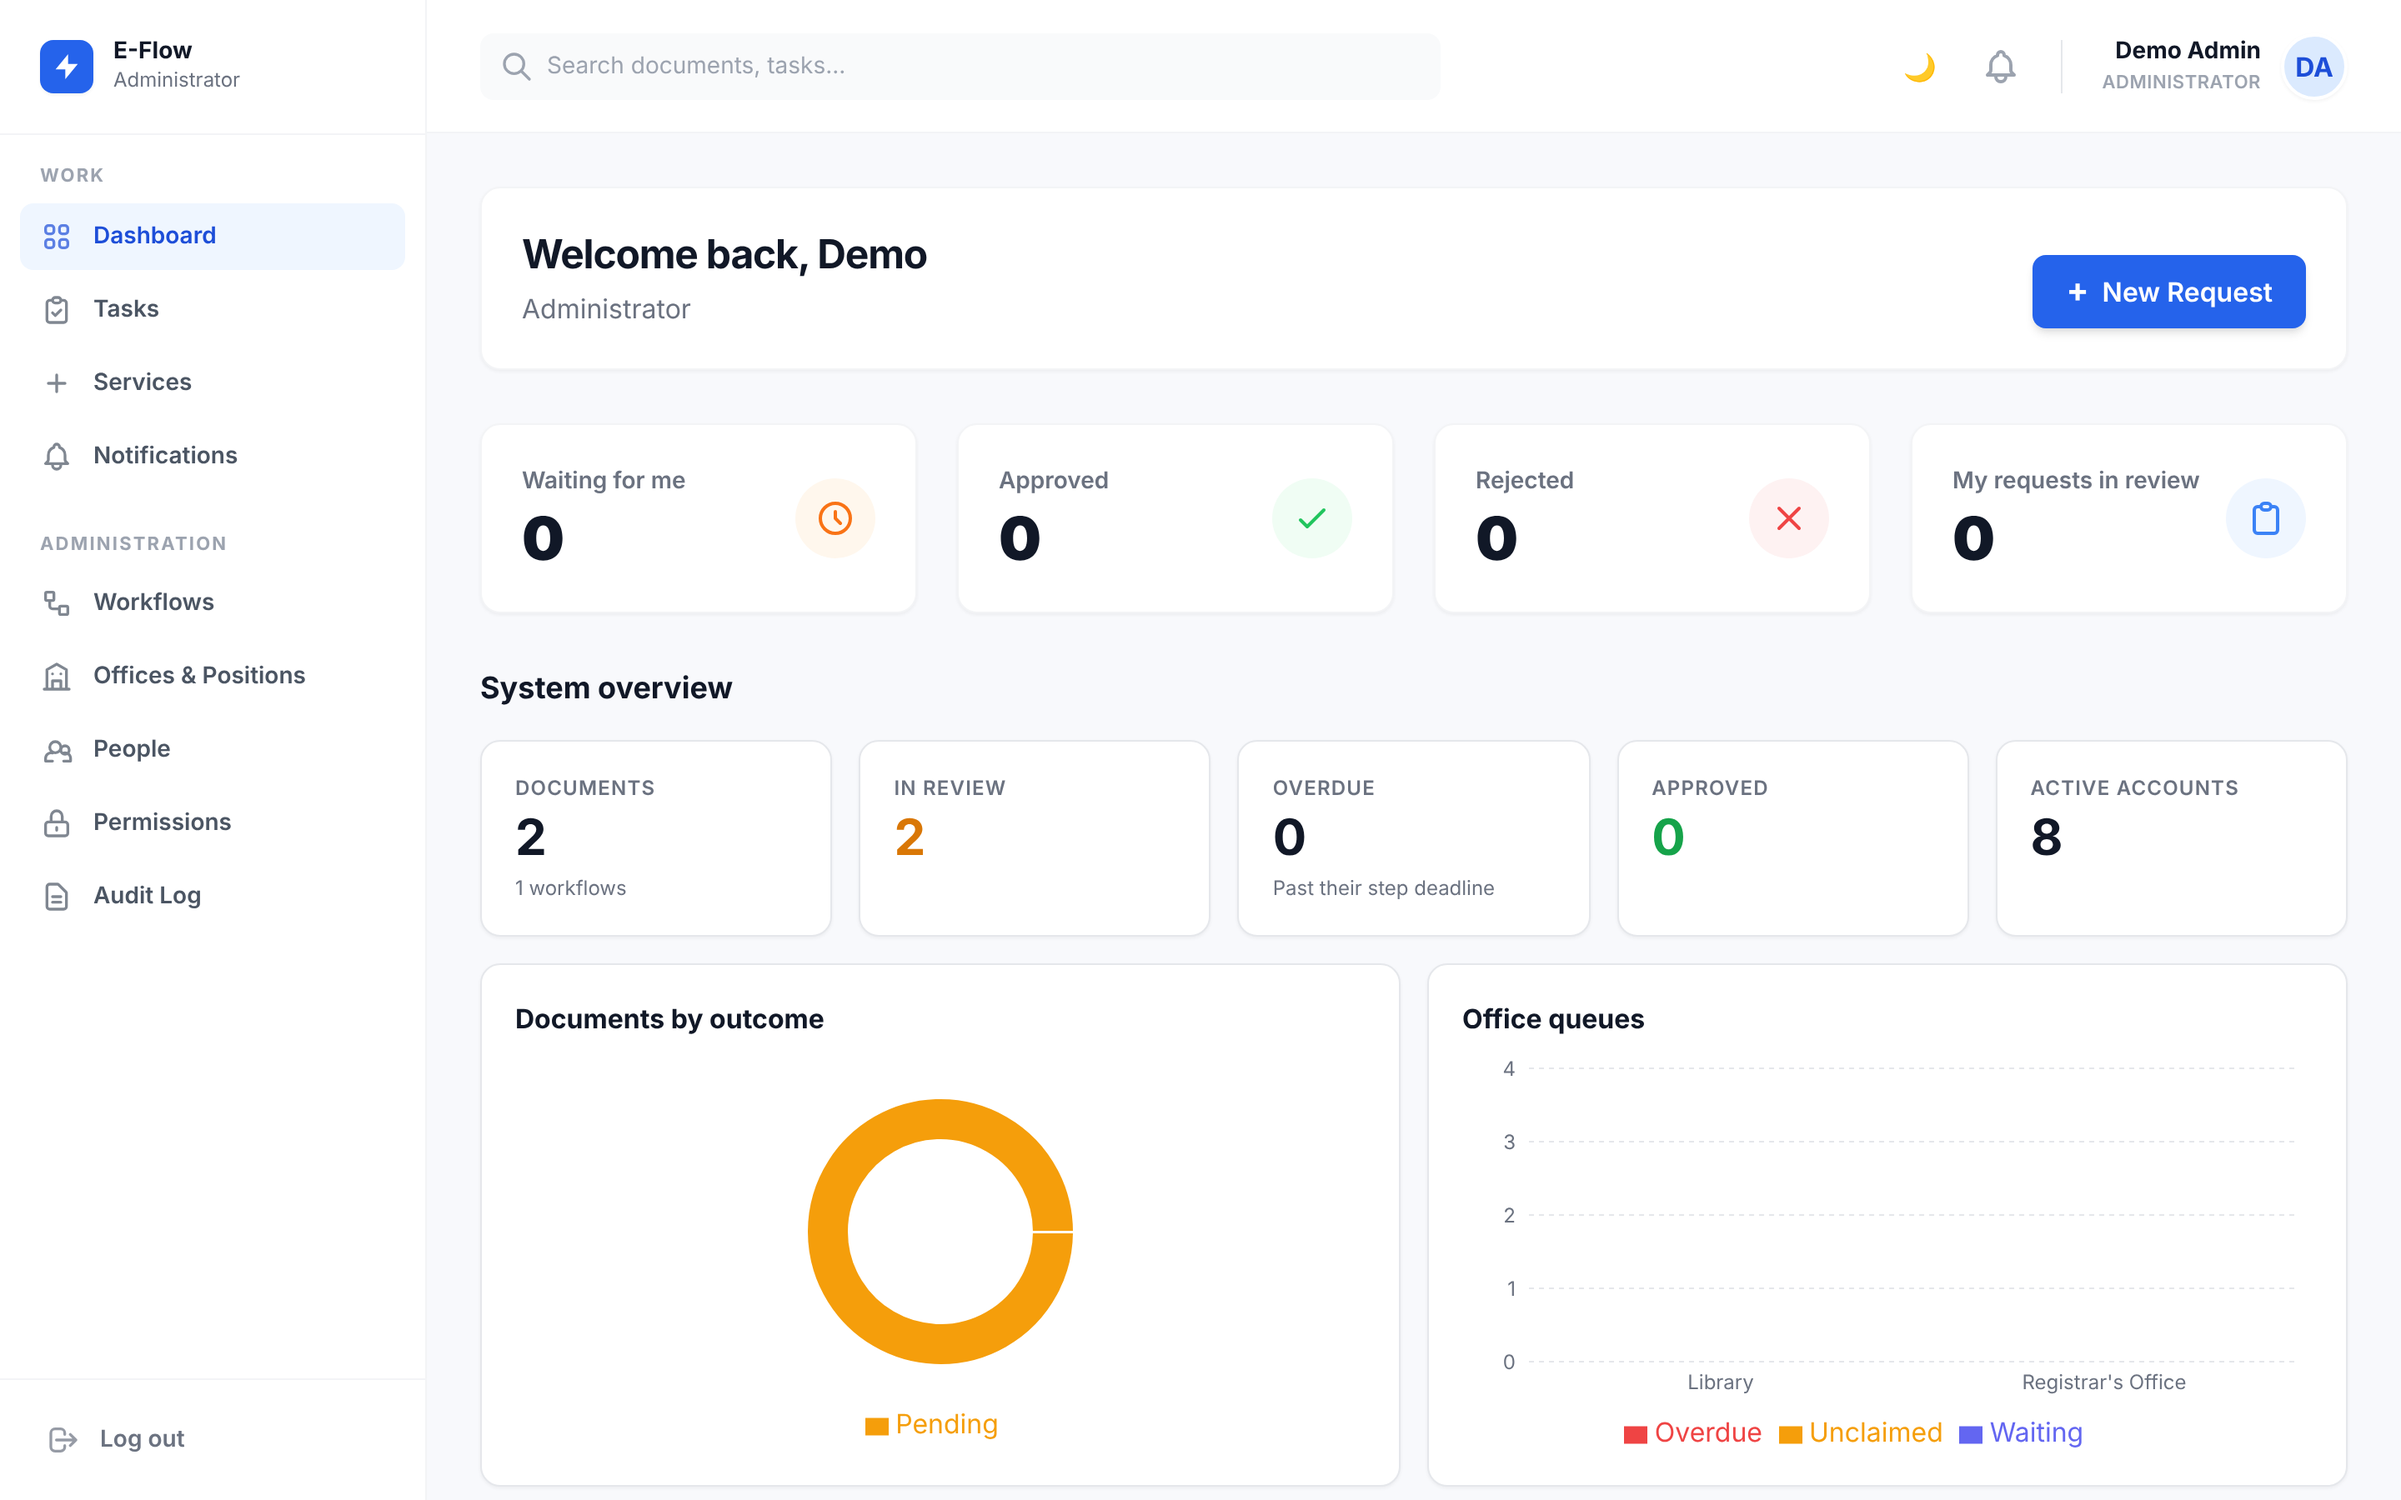
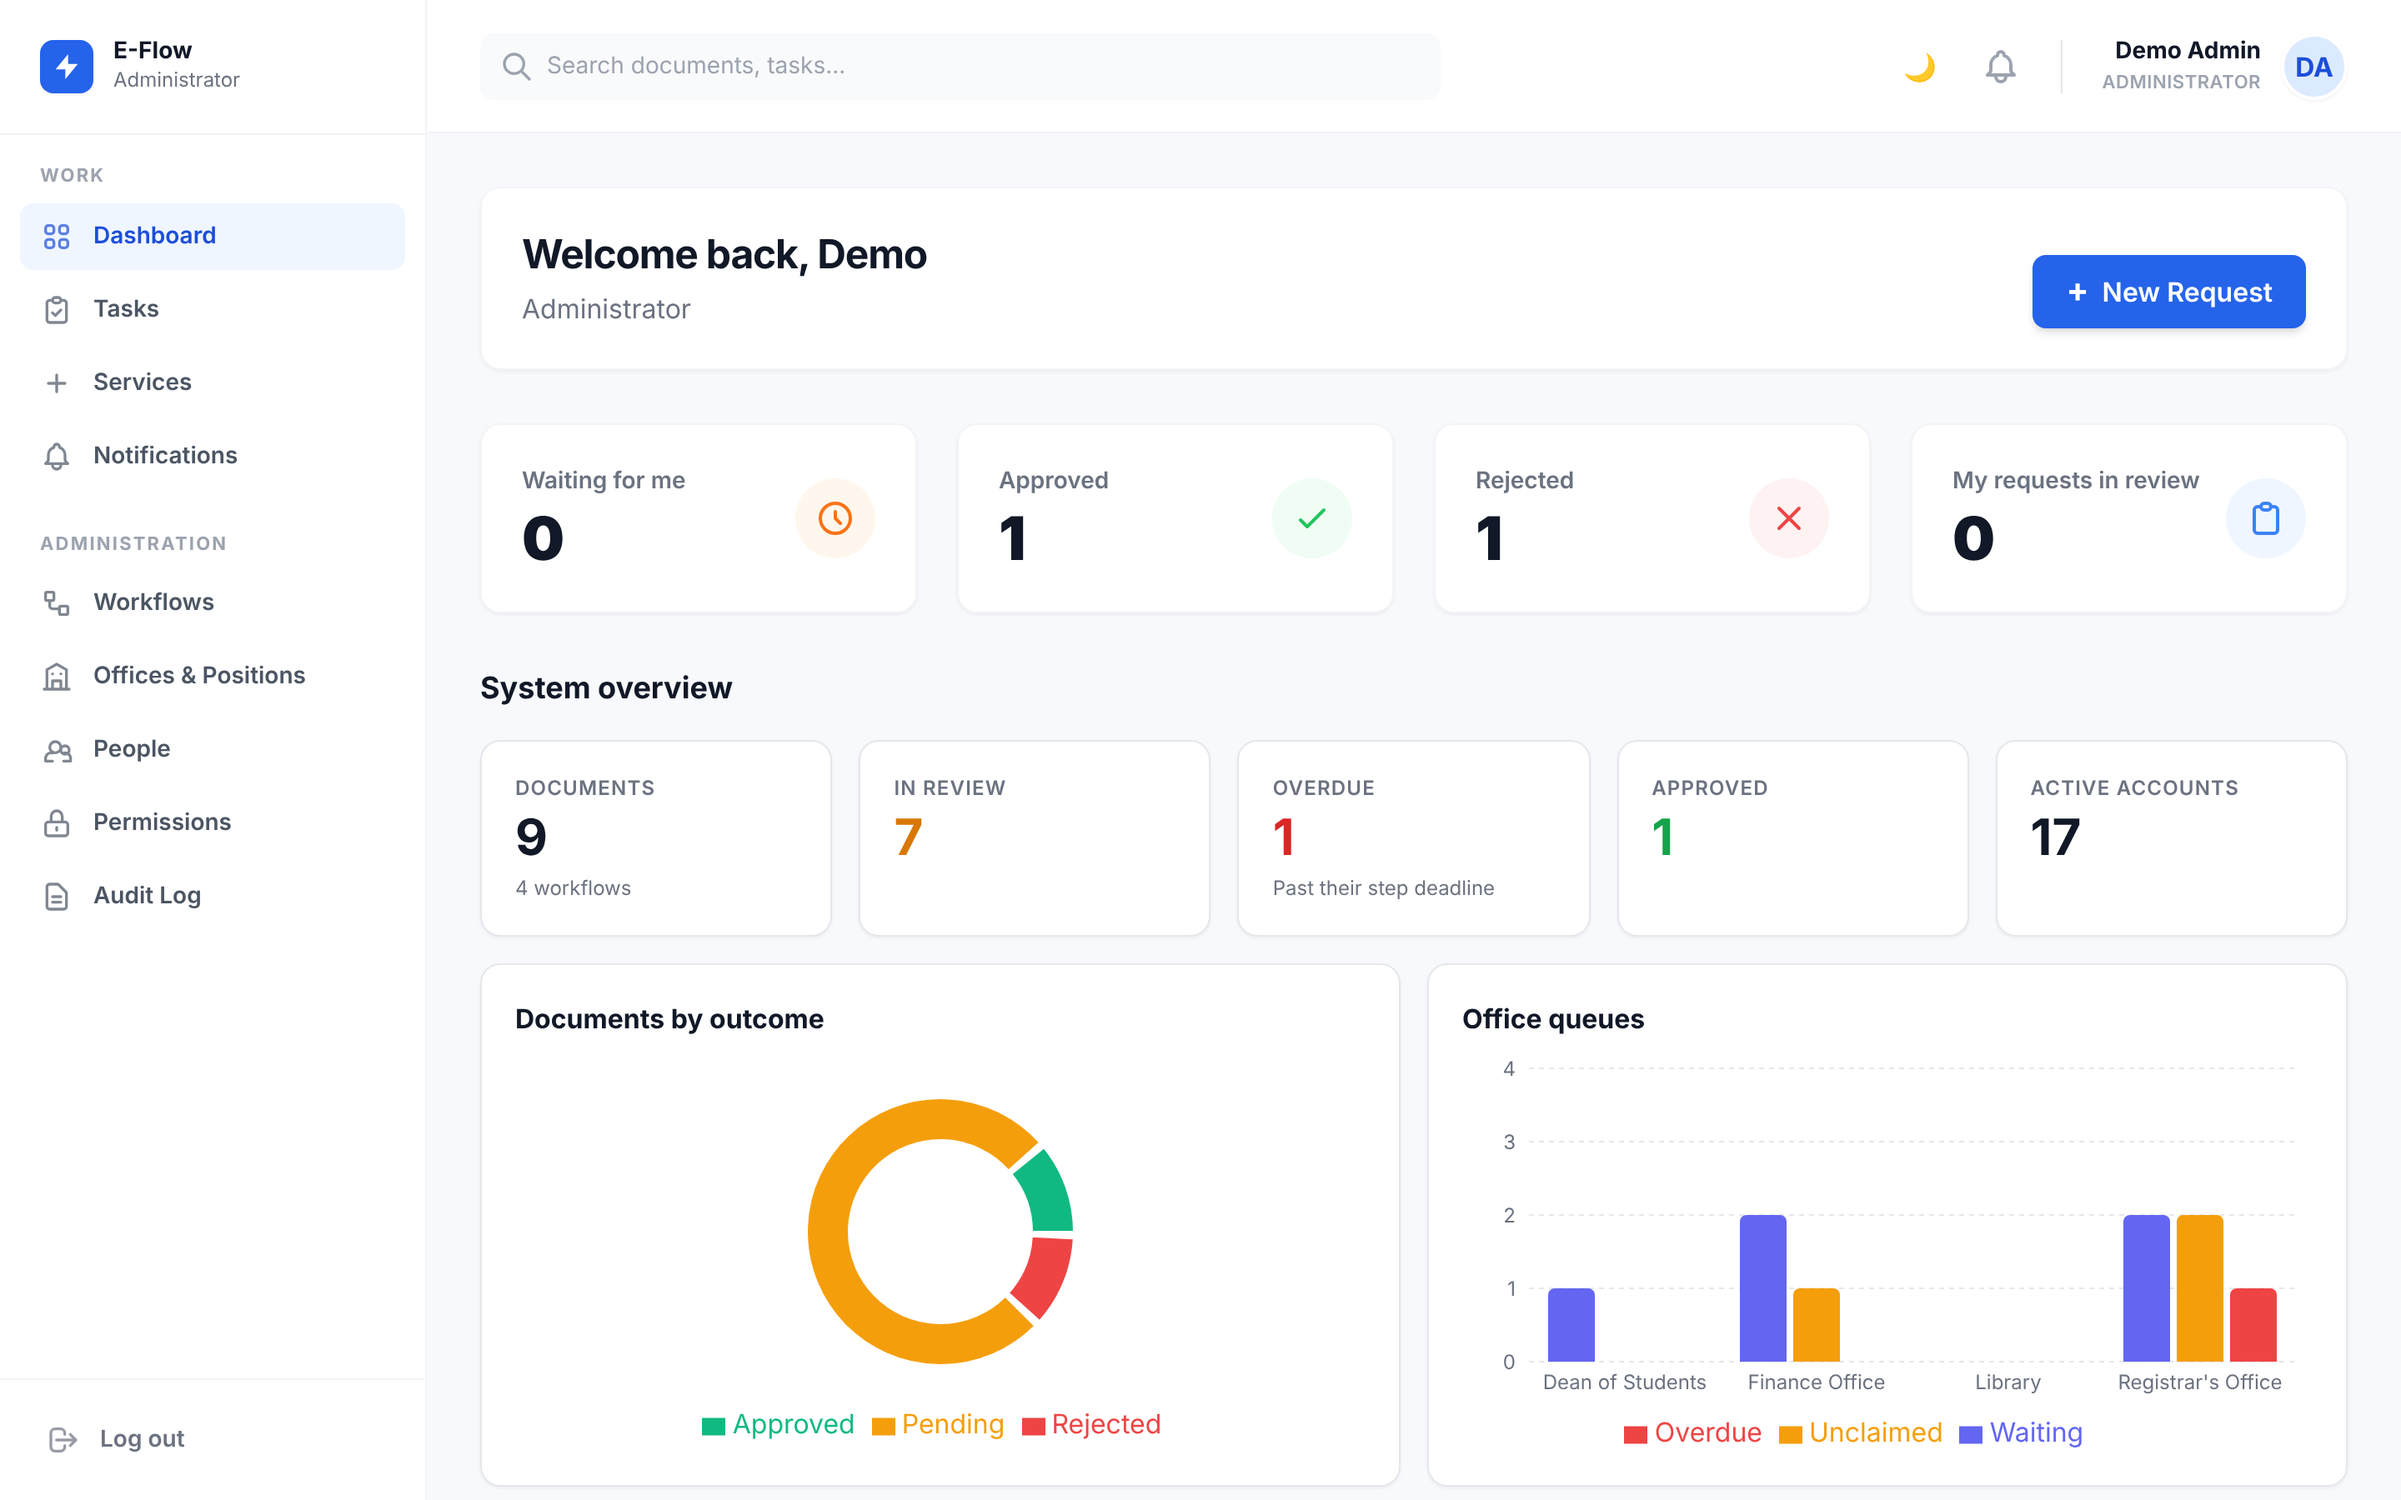
Document the demo data and new builder, refresh screenshots

diff --git a/README.md b/README.md
@@ -3,7 +3,7 @@
 E-Flow replaces paper forms in a university (or any organisation) with digital workflows. A student submits a document, such as a graduation clearance or a course withdrawal request, and E-Flow routes it through the right people. Each approver signs with a one-time code and a drawn signature, and every approval is cryptographically chained, so anyone can later check that the document was really approved and has not been tampered with.
 
 ![Workflow builder](docs/screenshots/workflow-builder.png)
-*Admins design approval routes visually: approvals, if/else conditions, parallel branches that merge, timers, emails, and steps that start other workflows.*
+*The full-screen builder: offices clear a student in parallel, then the Registrar signs. Each step's panel sets who reviews it, its deadline and what the reviewer must confirm before signing.*
 
 ## The problem
 
@@ -17,10 +17,16 @@ In many universities, simple requests like a clearance form still mean walking b
 - Late work escalates up the office automatically: to the position the late step reports to (a Records Officer's work goes to the Deputy), then to the head. No escalation target has to be set on every step.
 
 **Visual workflow builder**
-- Drag-and-drop editor built on React Flow with seven node types: approval, condition, parallel split, merge gate, email, delay, and spawn (start another workflow when this one finishes).
-- Workflows are validated before they can be published: loops (found with a depth-first search), dangling connections, approval steps with no approver, conditions with no value and parallel splits with a single branch are all reported back in the builder.
+- A full-screen, drag-and-drop editor built on React Flow with seven step types: approval, branch on outcome, parallel review, wait for all, send email, wait, and start other services. Steps can also be added with one click, and the service's own settings (who can submit, prerequisites, clearances) sit in one dialog.
+- Each approval step has a settings panel in plain language:
+  - **Who reviews:** an office's shared queue, one of its positions, or its head.
+  - **Deadline:** in hours, days or weeks, with presets, an option to count working days only (weekends don't count), and a reminder and final warning before it.
+  - **Before approving:** a required checklist the reviewer must tick (the server refuses an approval without it, and the confirmations are saved with the signature), and decision outcomes such as *Full waiver / Partial waiver* that the reviewer chooses while signing.
+  - **Reviewer can:** approve, send back, or attach files.
+- A *Branch on outcome* step routes the request by the decision made earlier; its options are picked from the outcomes defined in the workflow, not typed.
+- Workflows are validated before they can be published: loops (found with a depth-first search), dangling connections, approval steps with no approver, branches with no outcome to match and parallel splits with a single branch are all reported back in the builder.
 - Saving as a draft skips validation, and a workflow can't be edited in a way that removes a step a live document is waiting on.
-- Approvers can be an office (its shared queue, one of its positions, or its head), and as advanced options a specific person, a role, or a role within the submitter's department, with per-step permissions (approve, reject, attach) and checklists.
+- Besides offices, a step can go to a specific person, a role, or a role within the submitter's department (advanced options).
 - Workflows can require prerequisite workflows to be completed first.
 
 **Tamper-evident approvals**
@@ -30,10 +36,10 @@ In many universities, simple requests like a clearance form still mean walking b
 - Students can create public verification links (with expiry and use limits, and the option to revoke them) that let anyone confirm a document is genuine.
 
 **Operations**
-- Per-step deadlines: each approval step can set its own deadline, a reminder and a final warning. Once the deadline passes, the step is escalated once to a chosen person.
+- Per-step deadlines with reminders and final warnings. Once the deadline passes, the step escalates once, up the office or to a person chosen on the step.
 - Delay steps pause a document for a set number of hours, and a background job resumes it.
 - Out-of-office delegation that follows chains of delegates and detects loops.
-- In-app and email notifications, version history when a document is resubmitted, and document tags with history.
+- In-app and email notifications, version history when a document is resubmitted, and a history of the outcomes chosen at each step.
 - System statistics on the dashboard (including overdue documents and each office's queue), and a searchable audit log with CSV export.
 
 **Access control**
@@ -46,9 +52,13 @@ In many universities, simple requests like a clearance form still mean walking b
 **Layout**
 - Every part of the app has its own page and address: Dashboard, Tasks, Services, Notifications and My Office for everyone who works in an office, plus Workflows (a full-screen builder), Offices & Positions, People, Permissions and Audit Log for those with the matching permission. On a phone the sidebar becomes a menu.
 
-| Student portal | Staff approval queue |
+| Staff approval queue | Reviewing before signing |
 | --- | --- |
-| ![Student portal](docs/screenshots/student-portal.png) | ![Staff dashboard](docs/screenshots/staff-dashboard.png) |
+| ![Staff approval queue](docs/screenshots/staff-dashboard.png) | ![Review before signing](docs/screenshots/review-step.png) |
+
+| Student portal |
+| --- |
+| ![Student portal](docs/screenshots/student-portal.png) |
 
 | Offices and positions | People |
 | --- | --- |
@@ -87,7 +97,7 @@ flowchart LR
     Cron --> Mail
 ```
 
-**How a document moves:** when a document is submitted, the engine reads the workflow graph and finds the first step. Each approval writes a signed record and moves the document along the matching edge. Condition nodes choose a branch based on the document's tags. Parallel nodes create branches that run at the same time, and the merge gate waits until all of them are done. When the last step is approved, the certificate is stamped onto the PDF and any "spawn" workflows start.
+**How a document moves:** when a document is submitted, the engine reads the workflow graph and finds the first step. Each approval writes a signed record and moves the document along the matching edge. Branch steps choose a path based on the outcome a reviewer chose at an earlier step. Parallel nodes create branches that run at the same time, and the merge gate waits until all of them are done. When the last step is approved, the certificate is stamped onto the PDF and any "spawn" workflows start.
 
 ## Tech stack
 
@@ -108,7 +118,7 @@ flowchart LR
 cd server
 npm install
 cp .env.example .env        # then set DB_PASSWORD, JWT_SECRET and APPROVAL_SIGNING_SECRET
-npm run db:setup            # creates the database, tables and demo accounts
+npm run db:setup            # creates the database, tables and the demo (see below)
 npm run dev                 # API on http://localhost:5000
 
 # 2. Frontend (in a second terminal)
@@ -121,18 +131,31 @@ Email is optional for local use. Without SMTP settings, one-time codes are shown
 
 `npm run db:reset` drops and recreates the database if you want a clean start.
 
-### Demo accounts
+### Demo data
 
-`npm run db:setup` creates these accounts for local testing. The password for all of them is `demo1234`, which you can change with `DEMO_PASSWORD` in `.env`.
+`npm run db:setup` also loads a ready-to-show university, so nothing has to be set up by hand. Every account uses the password `demo1234` (change it with `DEMO_PASSWORD` in `.env`). Add `--no-demo` to skip it, or run `npm run db:demo` to add it to an existing database.
 
-| Account type | Email |
-| --- | --- |
-| Administrator | `admin@example.com` |
-| Staff | `staff@example.com` |
-| Staff | `staff2@example.com` |
-| Student | `abebe@example.com` |
+**Offices and staff**
 
-Two demo offices are created too: the **Registrar's Office** (head: `staff2@example.com`; positions Deputy Registrar and Records Officer, which reports to the Deputy; `staff@example.com` is the Records Officer) and the **Library** (head: `staff@example.com`).
+| Office | Head | Positions and officers |
+| --- | --- | --- |
+| Registrar's Office | `registrar@example.com` (Hana Tesfaye) | Deputy Registrar: `deputy.registrar@example.com`; Records Officer (reports to the Deputy): `records@example.com` |
+| Library | `librarian@example.com` (Yonas Kebede) | Circulation Officer: `library@example.com` |
+| Finance Office | `finance@example.com` (Tigist Worku) | Cashier: `cashier@example.com` |
+| Dean of Students | `dean@example.com` (Dr. Selam Mekonnen) | Student Affairs Officer: `studentaffairs@example.com` |
+
+**Other accounts:** `admin@example.com` (Administrator), `designer@example.com` (staff who can design workflows and manage offices), and the students `abebe@example.com`, `sara@example.com`, `nahom@example.com` and `ruth@example.com`. The general test accounts `staff@example.com` and `staff2@example.com` are officers in the Library and the Registrar's Office.
+
+**Live services**
+
+- **Official Transcript Request:** the Cashier checks the fee, the Records Officer prepares the transcript, the Registrar signs, and the student is emailed. Each step has a checklist and a working-day deadline.
+- **Graduation Clearance:** the Library, Finance and Dean of Students clear the student in parallel, then the Registrar approves.
+- **Fee Waiver Application:** Student Affairs decides *Full waiver* or *Partial waiver*; a full waiver goes to the head of Finance, a partial one to the Cashier.
+- **Student ID Replacement:** any Registrar officer can claim it, with a two-working-day deadline.
+
+**Requests already in progress:** one transcript fully approved and stamped (Abebe), one waiting in the Records Officer's queue (Sara), one claimed by the Cashier (Nahom); a graduation clearance with two of three offices done (Ruth) and one just submitted; a fee waiver routed to the Cashier as a partial waiver and one waiting for a decision; an ID request sent back to the student (Ruth) and one past its deadline.
+
+**A two-minute tour:** sign in as `records@example.com` and approve Sara's transcript from Tasks (claim it, tick the checklist, sign with the code shown on screen); then as `registrar@example.com` to sign it off; then as `studentaffairs@example.com` to decide Sara's fee waiver and watch it route by the outcome; then as `designer@example.com` to open any service in the builder. `admin@example.com` shows the system overview, People and Offices.
 
 ### Running on more than one server
 
@@ -146,7 +169,7 @@ npm test            # unit tests + integration tests (needs PostgreSQL)
 npm run test:unit   # unit tests only, no database needed
 ```
 
-The integration tests start the real API against a separate `eflow_test` database (created and reset automatically) and drive whole documents through it: linear, conditional and parallel routes, role-based load balancing, delegation, delays, deadline escalation, spawned workflows, clearances, account types and permissions, adding, importing and deactivating people, offices and positions (claiming, cover, escalation up the office), protected file downloads, sign-in limits, and tamper detection on the signature chain. The unit tests cover the graph walker, workflow validation and the signature chain on their own.
+The integration tests start the real API against a separate `eflow_test` database (created and reset automatically) and drive whole documents through it: linear, conditional and parallel routes, role-based load balancing, delegation, delays, deadline escalation, spawned workflows, clearances, required checklists and decision outcomes, working-day deadlines, the demo data loading cleanly, account types and permissions, adding, importing and deactivating people, offices and positions (claiming, cover, escalation up the office), protected file downloads, sign-in limits, and tamper detection on the signature chain. The unit tests cover the graph walker, workflow validation and the signature chain on their own.
 
 GitHub Actions runs the full suite against PostgreSQL 16 and builds the client on every push and pull request.
 
@@ -168,6 +191,7 @@ server/
   db/schema.sql         Base schema
   db/migrations/        Incremental schema changes, applied in order
   db/setup.js           One-command database setup
+  db/demo.js            Demo offices, people, services and requests
 docs/screenshots/       Images used in this README
 ```
 
